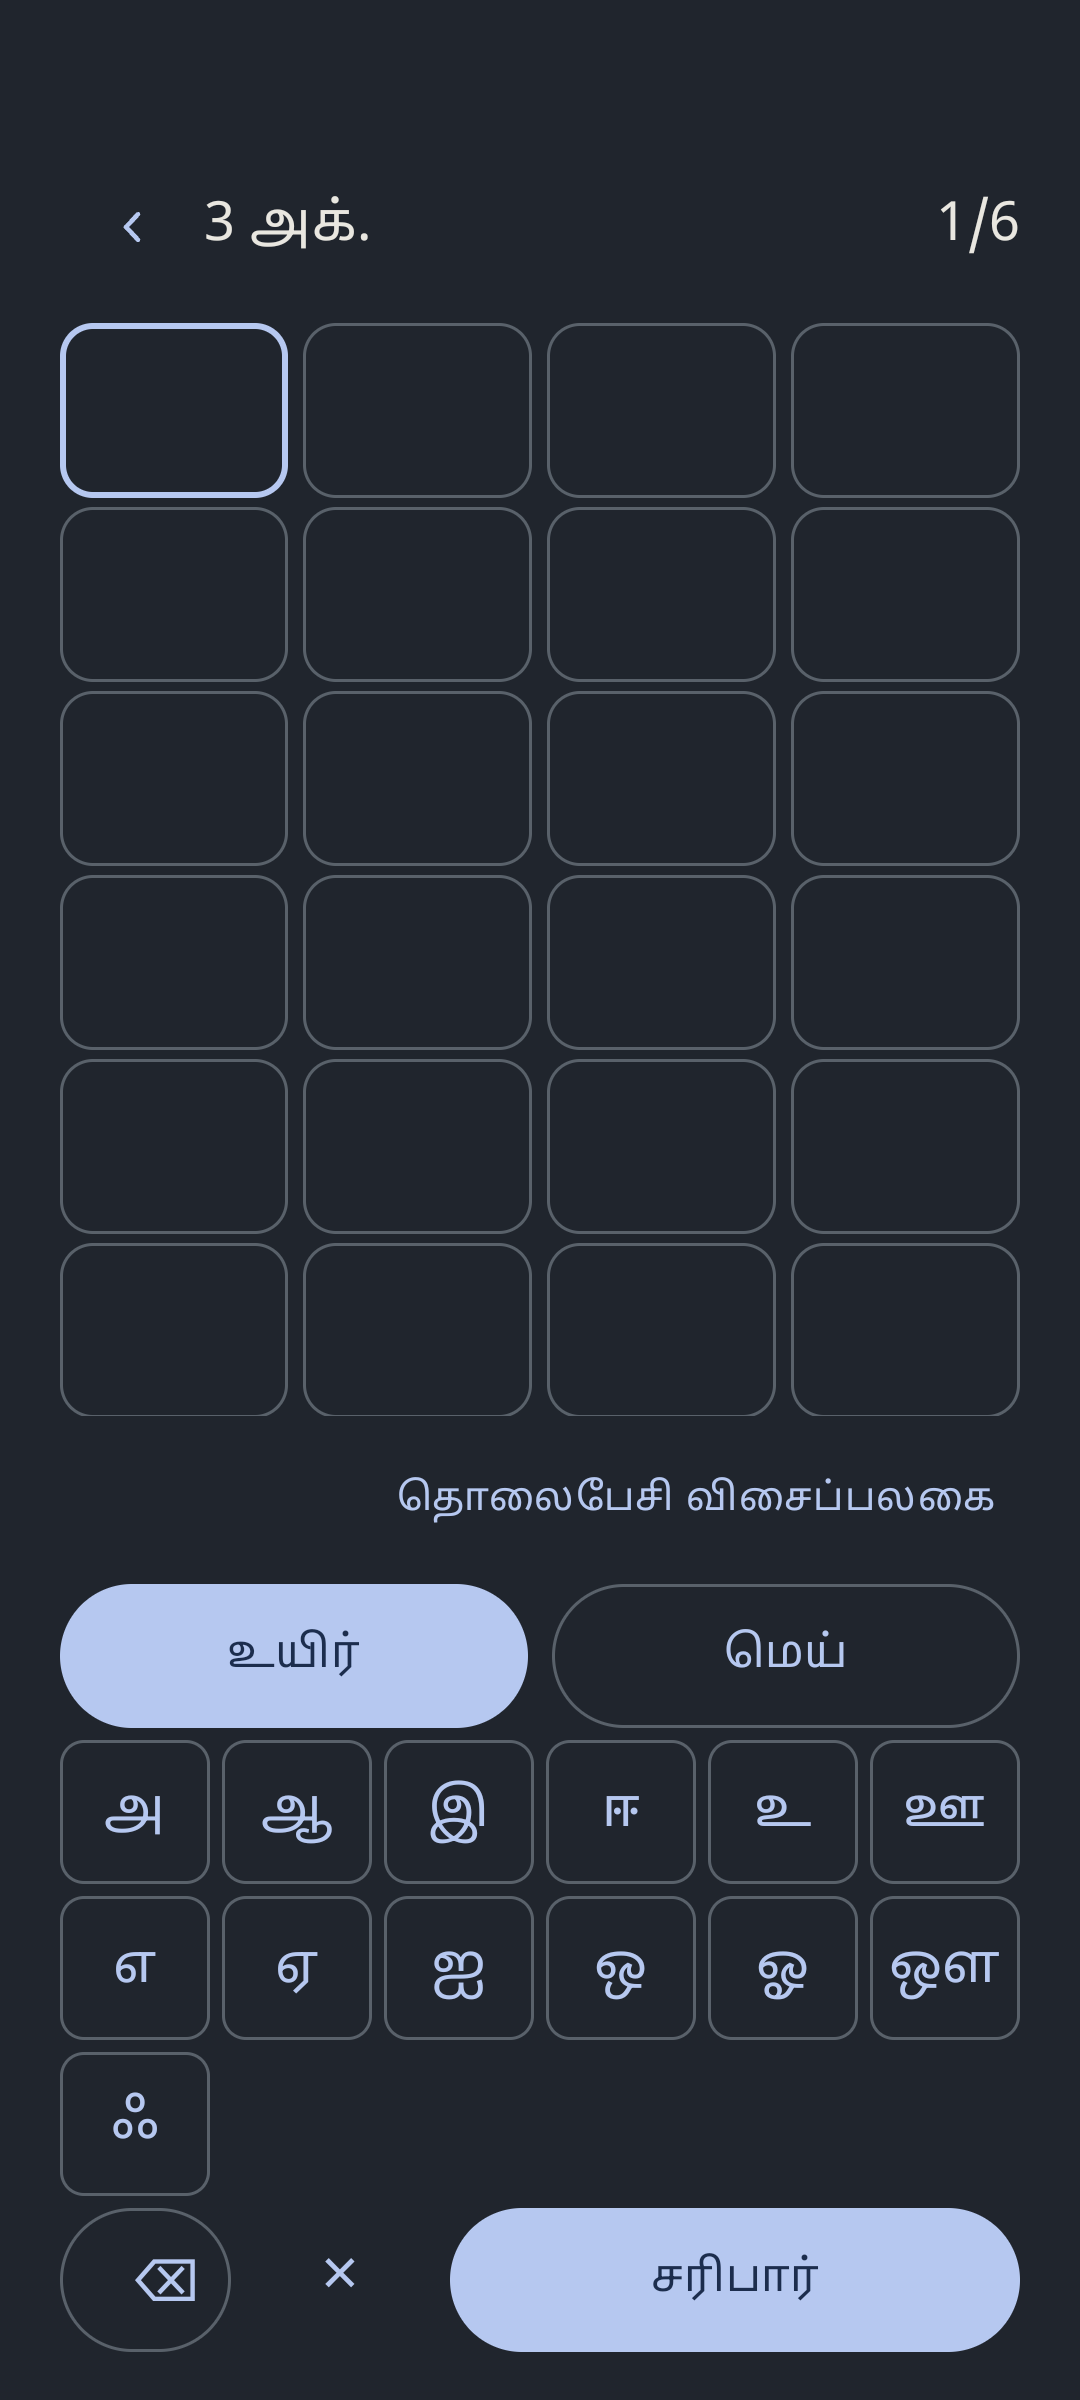
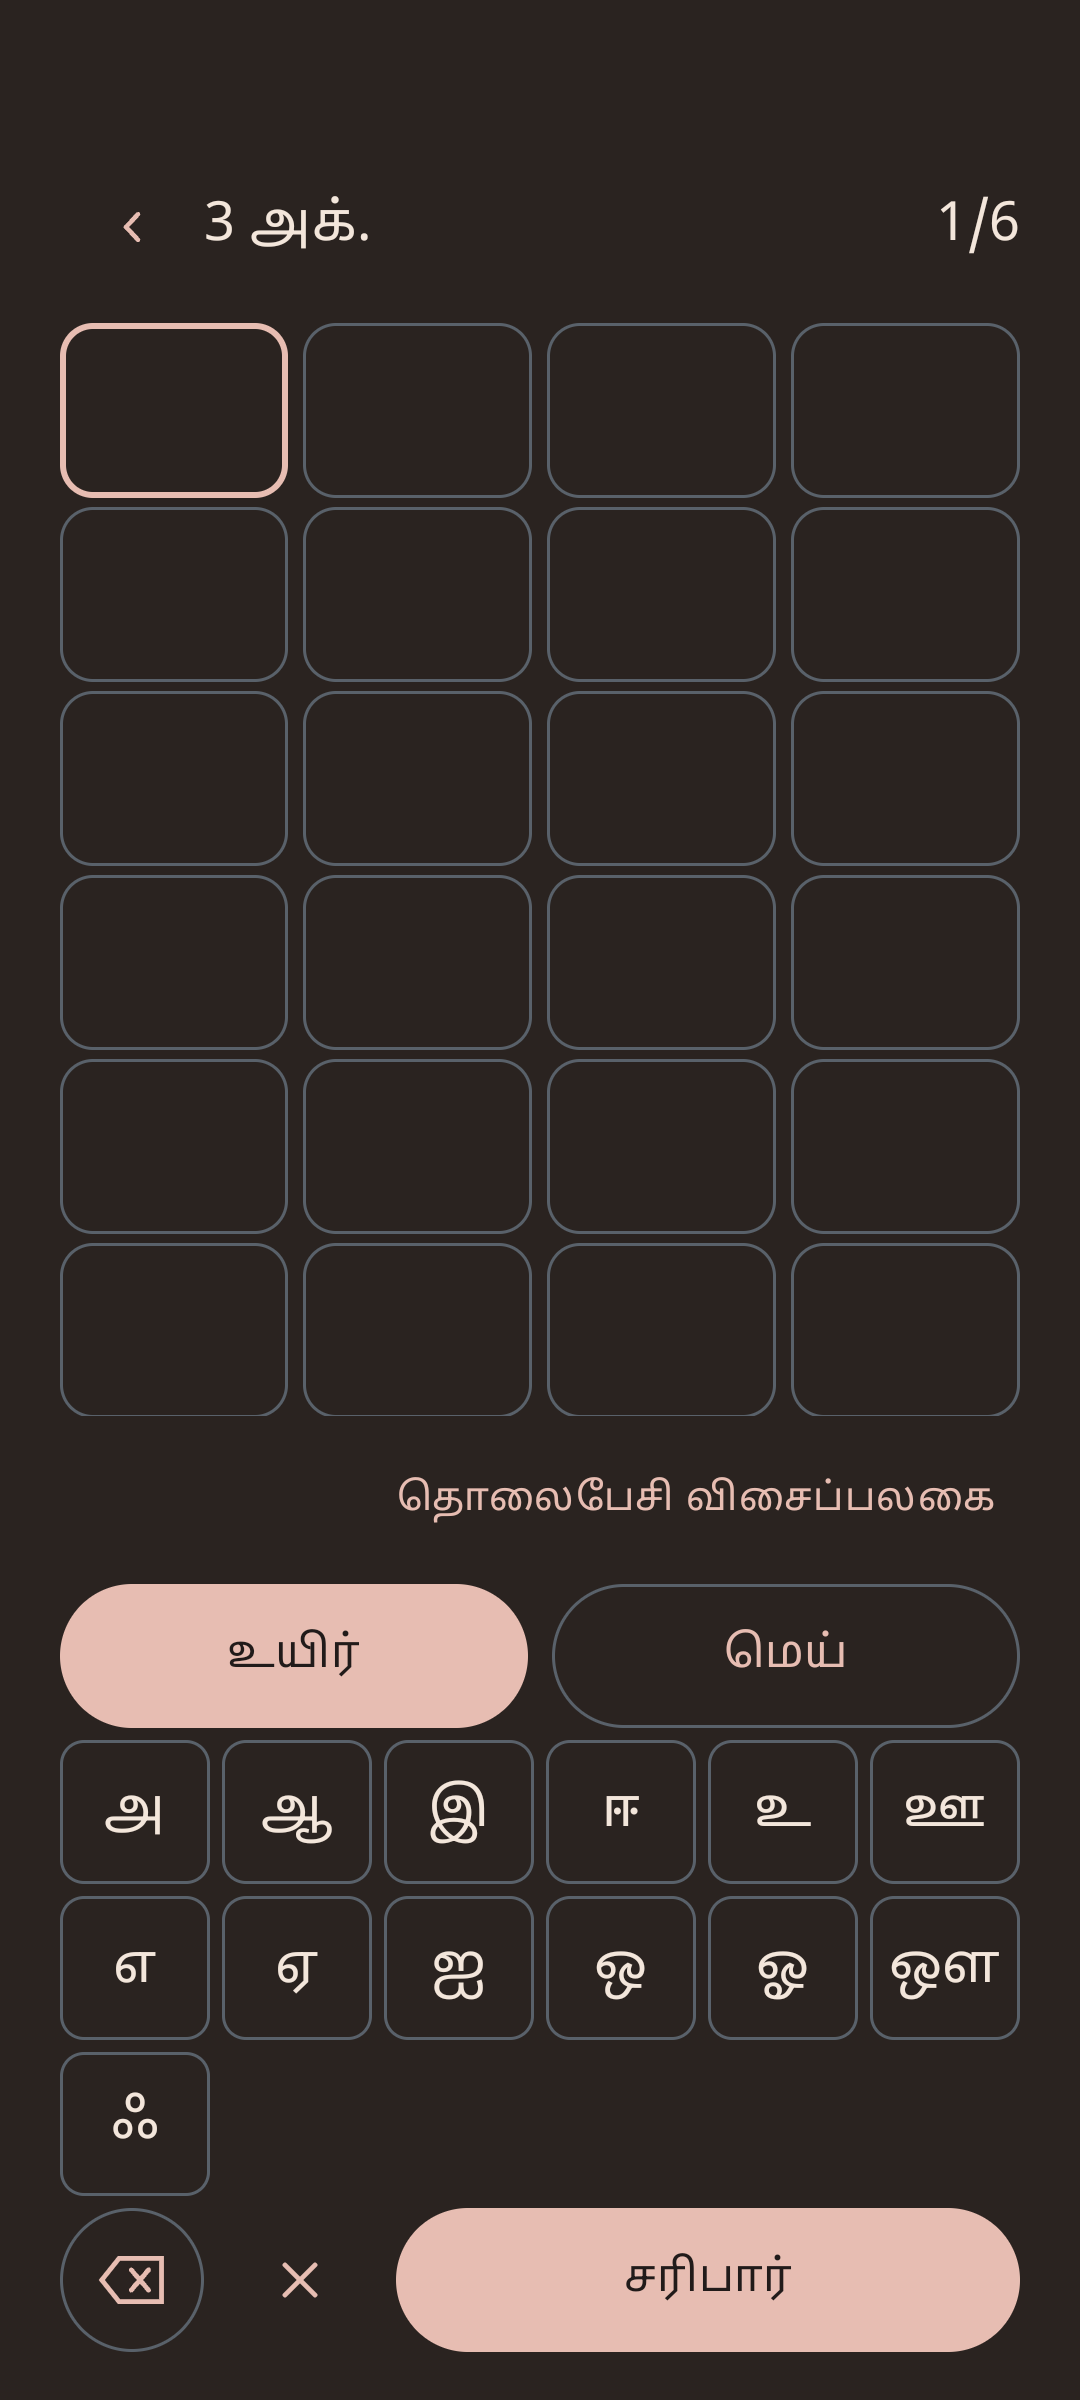
chore: refresh polished Android preview

diff --git a/assets/ASSETS.md b/assets/ASSETS.md
@@ -1,9 +1,12 @@
 # Public asset provenance
 
-- `app-board.png`: real Indle Android development screenshot, empty Tamil board.
+- `app-board.png`: real polished Indle Android development screenshot, empty
+  Tamil board in dark mode, captured on an Android API 35 device.
   Authorized for public website use by the project owner on 3 October 2026.
   Contains no answer, clue, identity, credential or private data. No screenshot
   pixels were changed. The page uses CSS framing only.
+  Dimensions: 1080 × 2400. Size: 113,119 bytes. SHA-256:
[1 lines of base64/hex data omitted]
 - `favicon.svg`: original typographic Indle website icon, created for this site.
 - `social-card.png`: original editorial website share graphic, created for this
   site. It contains only the brand name, public slogan and abstract shapes.
